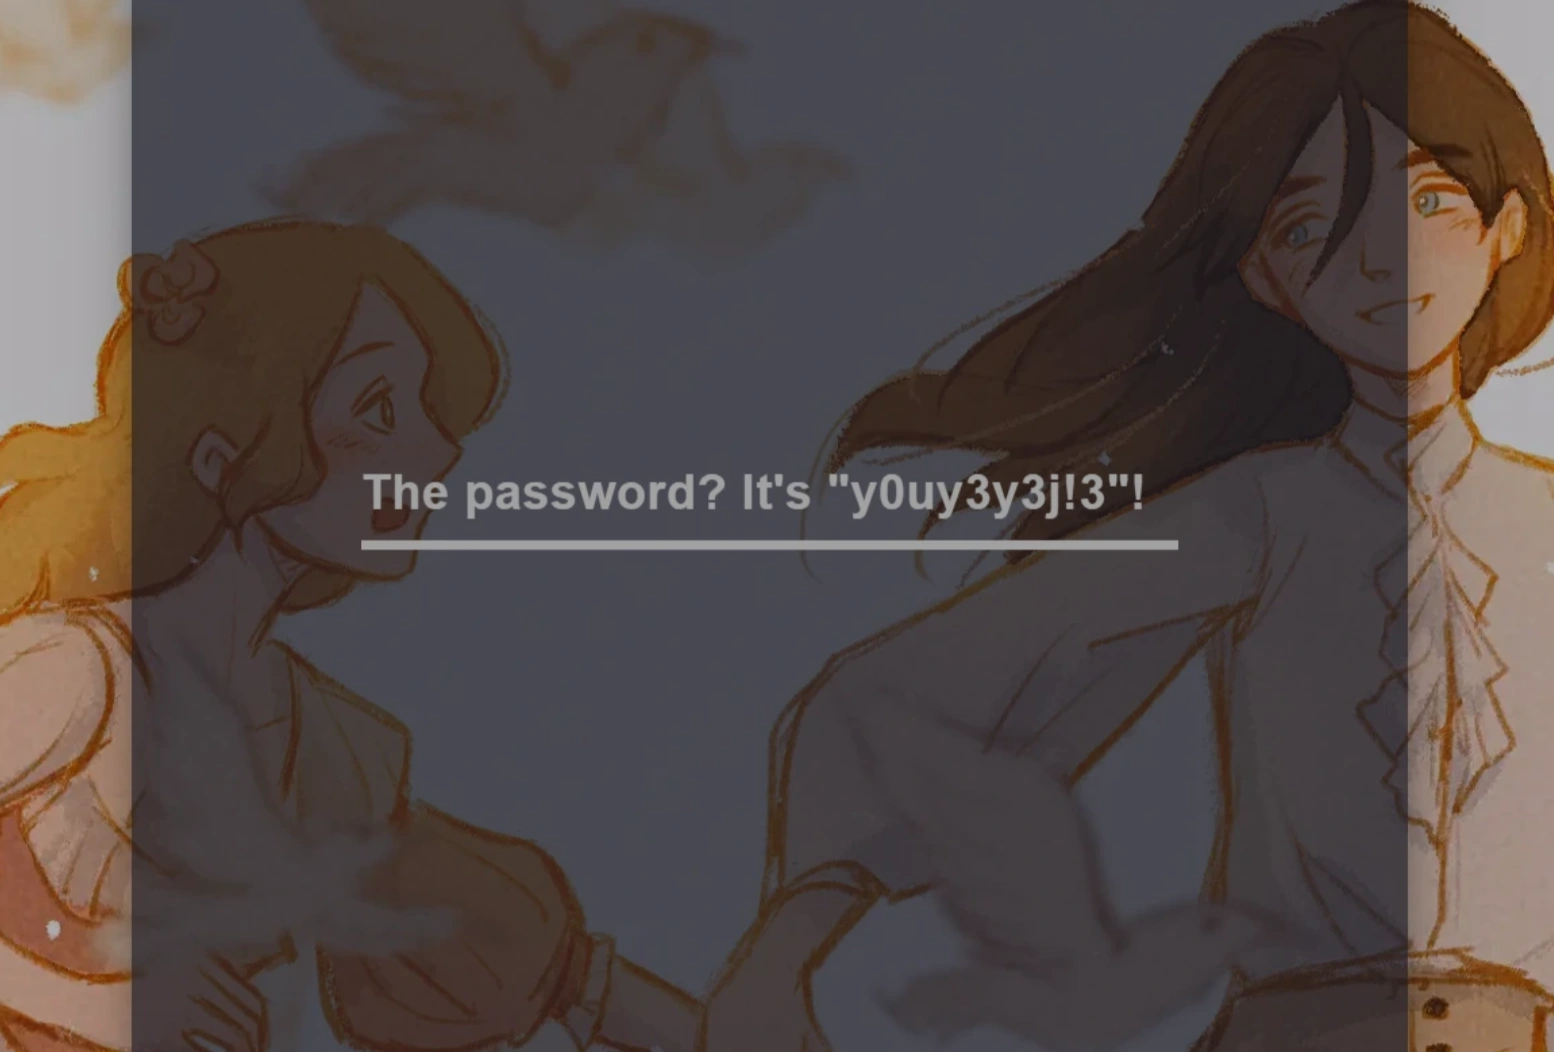
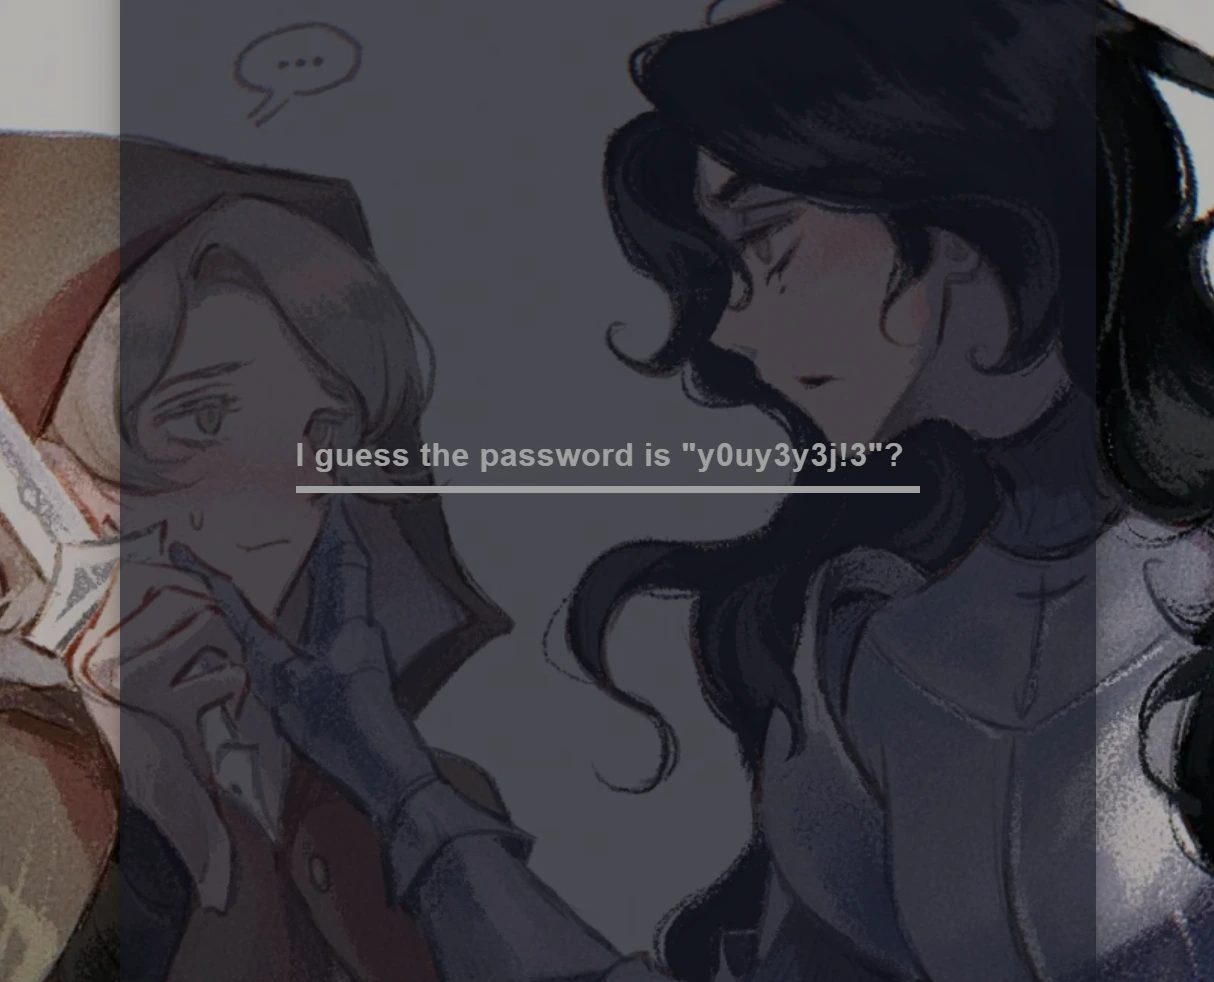
Site updated: 2025-12-31 18:13:44

diff --git a/_posts/An-encrypted-post/index.html b/_posts/An-encrypted-post/index.html
@@ -30,7 +30,7 @@
 <meta property="og:description" content="本文已加密，请输入密码查看完整内容">
 <meta property="og:locale" content="zh_CN">
 <meta property="article:published_time" content="2025-12-31T07:36:26.000Z">
-<meta property="article:modified_time" content="2025-12-31T08:26:36.770Z">
+<meta property="article:modified_time" content="2025-12-31T10:13:13.259Z">
 <meta property="article:author" content="youyeyejie">
 <meta property="article:tag" content="yyyj">
 <meta property="article:tag" content="YYYJ">
@@ -444,7 +444,7 @@
         <i class="iconfont icon-chart"></i>
         
           <!-- compatible with older versions-->
-          15 字
+          14 字
         
       </span>
     
@@ -511,12 +511,12 @@
             
               
               <div class="hbe hbe-container" id="hexo-blog-encrypt" data-wpm="密码错误，请重试！" data-whm="内容损坏">
[2 lines of base64/hex data omitted]
   <div class="hbe hbe-content">
     <div class="hbe hbe-input hbe-input-shrink">
       <input class="hbe hbe-input-field hbe-input-field-shrink" type="password" id="hbePass">
       <label class="hbe hbe-input-label hbe-input-label-shrink" for="hbePass">
-        <span class="hbe hbe-input-label-content hbe-input-label-content-shrink">The password? It's "y0uy3y3j!3"!</span>
+        <span class="hbe hbe-input-label-content hbe-input-label-content-shrink">I guess the password is "y0uy3y3j!3"?</span>
       </label>
     </div>
   </div>
